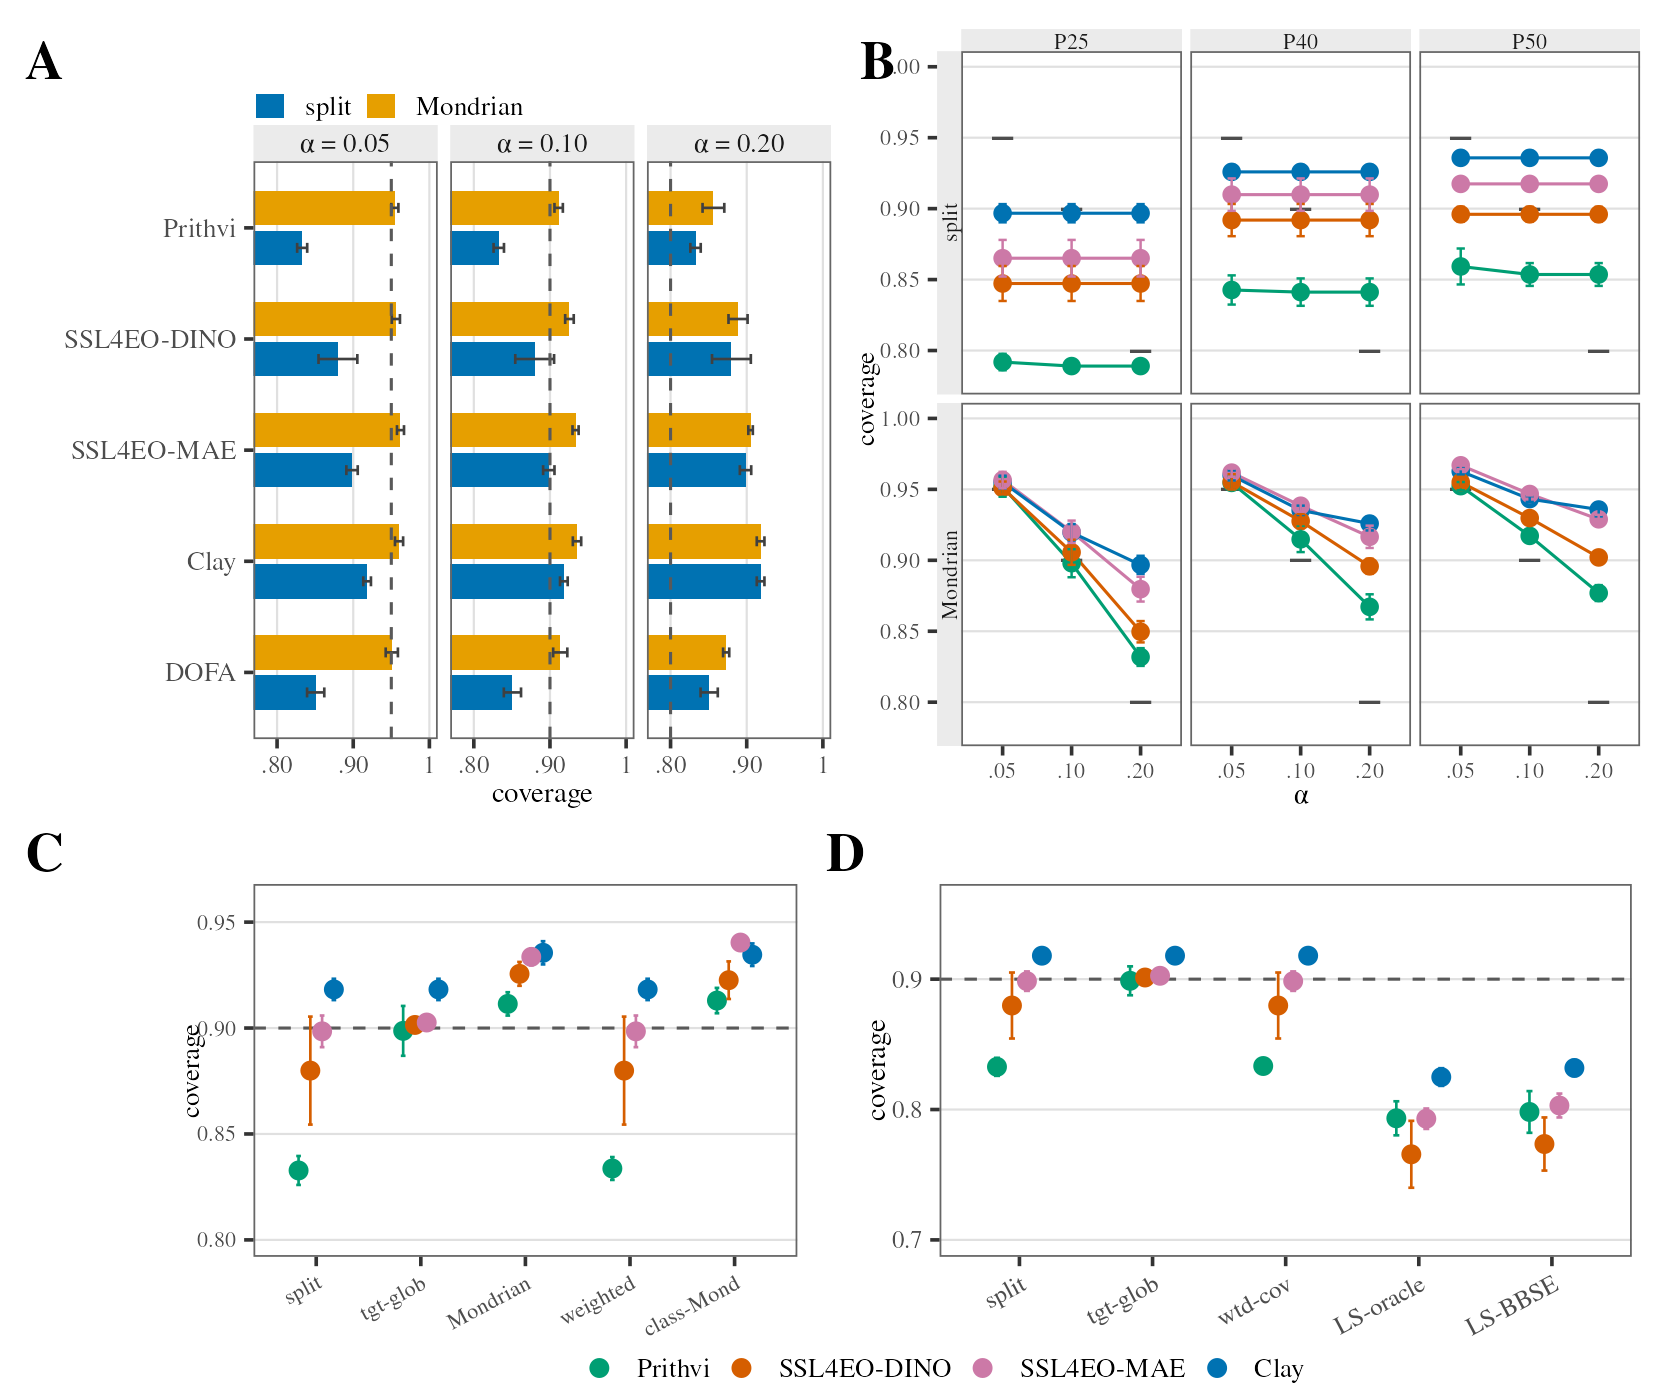
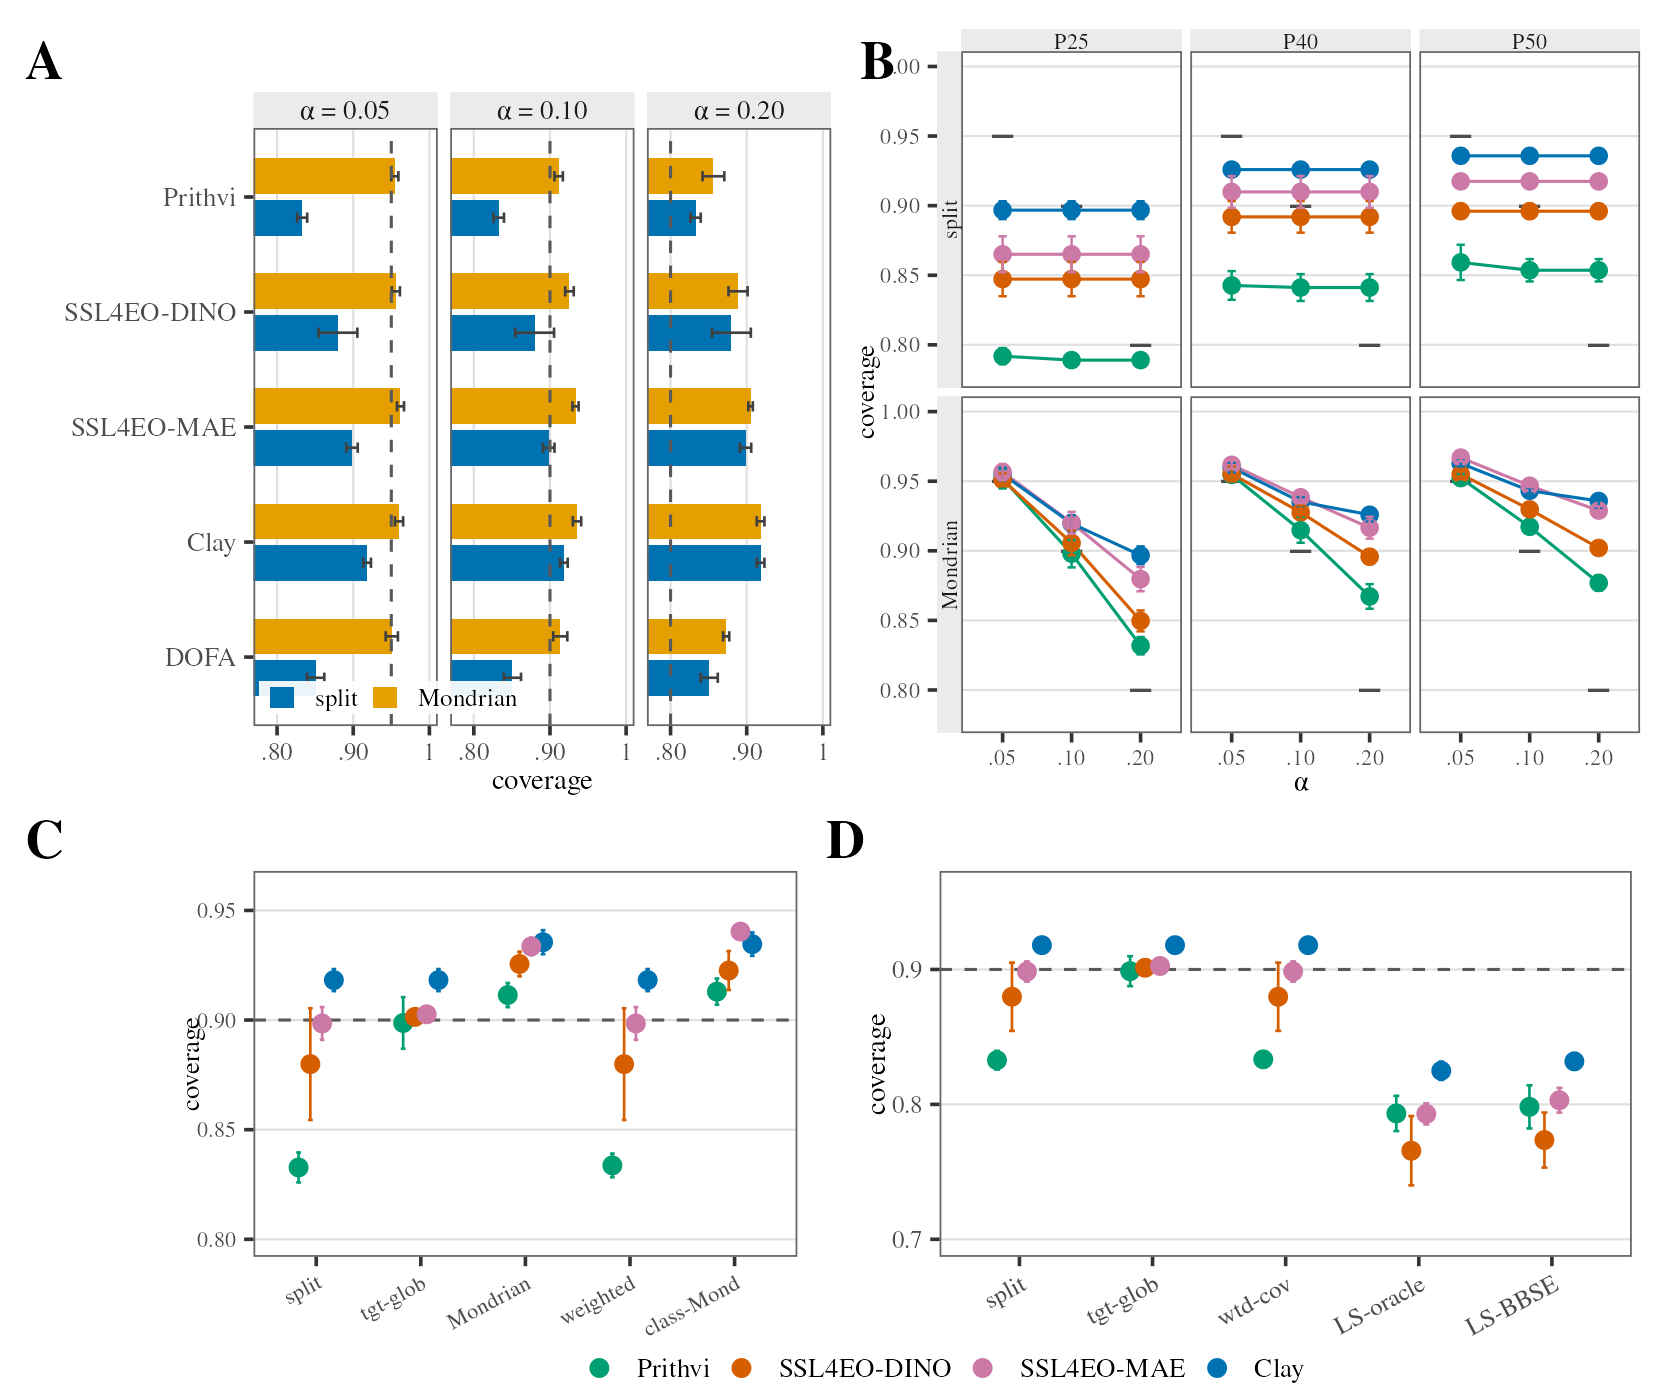
Catch remaining GEO fig0/F2 and TGRS TeX polish.

diff --git a/manuscripts/figures-src/fig0_overview.tex b/manuscripts/figures-src/fig0_overview.tex
@@ -11,10 +11,10 @@
 % cards/gaps) and place the FAILURE/SURVIVING fork as a second row centered
 % under the full pipeline width -- fills the empty lower-left / upper-right
 % corners of the prior stage-5-only fork.
-% 2026-08-12c body ratio: larger stage cards, tighter standalone crop, and a
-% clean rail+T fork in the gap between FAILURE|SURVIVING (no fish L-detour
-% under stage 5 into the SURVIVING card).
-\documentclass[border=1pt]{standalone}
+% 2026-08-12c body ratio: taller/wider stage cards, tighter crop; fork is a
+% direct stem from REPORT into a T in the FAILURE|SURVIVING gap (no fish
+% L-rail under stage 5).
+\documentclass[border=0.6pt]{standalone}
 \usepackage[T1]{fontenc}
 \usepackage{tikz}
 \usetikzlibrary{arrows.meta,calc,positioning}
@@ -36,127 +36,127 @@
 \begin{document}
 \begin{tikzpicture}[
   x=1mm, y=1mm,
-  font=\rmfamily\fontsize{7.8}{9.0}\selectfont,
+  font=\rmfamily\fontsize{8.0}{9.2}\selectfont,
   line cap=round, line join=round,
   >=Latex,
-  flow/.style={draw=cMute, line width=1.2pt,
-    -{Latex[length=2.4mm,width=1.6mm]}, shorten >=0.15mm, shorten <=0.15mm},
-  flowplain/.style={draw=cMute, line width=1.2pt},
-  stage/.style={draw=cLine, line width=0.65pt, rounded corners=1.25mm,
-    fill=cSurface, minimum width=28.5mm, minimum height=22.0mm,
+  flow/.style={draw=cMute, line width=1.25pt,
+    -{Latex[length=2.45mm,width=1.65mm]}, shorten >=0.12mm, shorten <=0.12mm},
+  flowplain/.style={draw=cMute, line width=1.25pt},
+  stage/.style={draw=cLine, line width=0.7pt, rounded corners=1.3mm,
+    fill=cSurface, minimum width=29.5mm, minimum height=24.0mm,
     inner sep=0pt, outer sep=0pt, align=center},
-  outbox/.style={draw, line width=0.95pt, rounded corners=1.15mm,
-    align=center, minimum width=56mm, minimum height=11.5mm,
-    inner sep=1.2mm, font=\rmfamily\fontsize{7.2}{8.2}\selectfont},
-  steplab/.style={font=\rmfamily\fontsize{6.1}{6.8}\selectfont, text=cMute},
-  rolelab/.style={font=\rmfamily\fontsize{5.5}{6.2}\selectfont\bfseries},
-  titlelab/.style={font=\rmfamily\fontsize{7.5}{8.4}\selectfont, text=cInk},
+  outbox/.style={draw, line width=1.0pt, rounded corners=1.2mm,
+    align=center, minimum width=58mm, minimum height=12.2mm,
+    inner sep=1.25mm, font=\rmfamily\fontsize{7.4}{8.4}\selectfont},
+  steplab/.style={font=\rmfamily\fontsize{6.3}{7.0}\selectfont, text=cMute},
+  rolelab/.style={font=\rmfamily\fontsize{5.7}{6.4}\selectfont\bfseries},
+  titlelab/.style={font=\rmfamily\fontsize{7.7}{8.6}\selectfont, text=cInk},
 ]
 
 % ---- Accent bar (left strip inside a named stage node) ----
 \newcommand{\accentbar}[2]{%
-  \fill[#2] ([xshift=0.5mm,yshift=-0.8mm]#1.north west)
-    rectangle ([xshift=1.9mm,yshift=0.8mm]#1.south west);}
+  \fill[#2] ([xshift=0.5mm,yshift=-0.85mm]#1.north west)
+    rectangle ([xshift=2.0mm,yshift=0.85mm]#1.south west);}
 
 % Soft role wash (top band) so stage type reads without relying on blue alone.
 \newcommand{\rolewash}[2]{%
-  \fill[#2, opacity=0.12] ([xshift=1.9mm,yshift=-0.5mm]#1.north west)
-    rectangle ([xshift=-0.5mm,yshift=-6.5mm]#1.north east);}
+  \fill[#2, opacity=0.12] ([xshift=2.0mm,yshift=-0.5mm]#1.north west)
+    rectangle ([xshift=-0.5mm,yshift=-6.8mm]#1.north east);}
 
 % =====================================================================
-% Row 1: five stages left → right. Centers every 33mm (28.5mm box + 4.5mm
-% gap) -- larger cards, still enough shaft for readable arrows.
+% Row 1: five stages left → right. Centers every 33.5mm (29.5mm box +
+% 4.0mm gap): larger cards, short but visible full arrow shafts.
 % =====================================================================
 \node[stage] (tile) at (0,0) {};
 \accentbar{tile}{cData}
 \rolewash{tile}{cData}
-\node[steplab, anchor=north west] at ($(tile.north west)+(2.3mm,-1.0mm)$) {1};
+\node[steplab, anchor=north west] at ($(tile.north west)+(2.4mm,-1.05mm)$) {1};
 \node[rolelab, text=cData!80!black, anchor=north east]
-  at ($(tile.north east)+(-1.0mm,-1.1mm)$) {DATA};
-\node[titlelab, align=center] at ($(tile.center)+(0.65mm,-2.9)$)
+  at ($(tile.north east)+(-1.05mm,-1.15mm)$) {DATA};
+\node[titlelab, align=center] at ($(tile.center)+(0.7mm,-3.15)$)
   {Sentinel-2\\tile};
 
-\node[stage] (enc) at (33,0) {};
+\node[stage] (enc) at (33.5,0) {};
 \accentbar{enc}{cModel}
 \rolewash{enc}{cModel}
-\node[steplab, anchor=north west] at ($(enc.north west)+(2.3mm,-1.0mm)$) {2};
+\node[steplab, anchor=north west] at ($(enc.north west)+(2.4mm,-1.05mm)$) {2};
 \node[rolelab, text=cModel!85!black, anchor=north east]
-  at ($(enc.north east)+(-1.0mm,-1.1mm)$) {MODEL};
-\node[titlelab, align=center] at ($(enc.center)+(0.65mm,-2.9)$)
+  at ($(enc.north east)+(-1.05mm,-1.15mm)$) {MODEL};
+\node[titlelab, align=center] at ($(enc.center)+(0.7mm,-3.15)$)
   {Frozen GFM\\encoder};
 
-\node[stage] (probe) at (66,0) {};
+\node[stage] (probe) at (67,0) {};
 \accentbar{probe}{cProbe}
 \rolewash{probe}{cProbe}
-\node[steplab, anchor=north west] at ($(probe.north west)+(2.3mm,-1.0mm)$) {3};
+\node[steplab, anchor=north west] at ($(probe.north west)+(2.4mm,-1.05mm)$) {3};
 \node[rolelab, text=cProbe!80!black, anchor=north east]
-  at ($(probe.north east)+(-1.0mm,-1.1mm)$) {PROBE};
-\node[titlelab, align=center] at ($(probe.center)+(0.65mm,-2.9)$)
+  at ($(probe.north east)+(-1.05mm,-1.15mm)$) {PROBE};
+\node[titlelab, align=center] at ($(probe.center)+(0.7mm,-3.15)$)
   {Frozen-embedding\\probe};
 
-\node[stage] (calib) at (99,0) {};
+\node[stage] (calib) at (100.5,0) {};
 \accentbar{calib}{cEval}
 \rolewash{calib}{cEval}
-\node[steplab, anchor=north west] at ($(calib.north west)+(2.3mm,-1.0mm)$) {4};
+\node[steplab, anchor=north west] at ($(calib.north west)+(2.4mm,-1.05mm)$) {4};
 \node[rolelab, text=cEval!80!black, anchor=north east]
-  at ($(calib.north east)+(-1.0mm,-1.1mm)$) {EVAL};
-\node[titlelab, align=center] at ($(calib.center)+(0.65mm,-2.9)$)
+  at ($(calib.north east)+(-1.05mm,-1.15mm)$) {EVAL};
+\node[titlelab, align=center] at ($(calib.center)+(0.7mm,-3.15)$)
   {Conformal calib.\\under shift};
 
-\node[stage] (report) at (132,0) {};
+\node[stage] (report) at (134,0) {};
 \accentbar{report}{cReport}
 \rolewash{report}{cReport}
-\node[steplab, anchor=north west] at ($(report.north west)+(2.3mm,-1.0mm)$) {5};
+\node[steplab, anchor=north west] at ($(report.north west)+(2.4mm,-1.05mm)$) {5};
 \node[rolelab, text=cReport, anchor=north east]
-  at ($(report.north east)+(-1.0mm,-1.1mm)$) {REPORT};
-\node[titlelab, align=center] at ($(report.center)+(0.65mm,-2.9)$)
+  at ($(report.north east)+(-1.05mm,-1.15mm)$) {REPORT};
+\node[titlelab, align=center] at ($(report.center)+(0.7mm,-3.15)$)
   {Coverage-debt\\report card};
 
 % ---- Icons (above labels, inside each card) ----
-\begin{scope}[shift={($(tile.center)+(0.85mm,4.2mm)$)}, thick, cData!85!black]
-  \draw[line width=0.6pt] (-1.95mm,-1.05mm) rectangle (1.95mm,1.05mm);
-  \draw[line width=0.5pt] (-3.55mm,-0.8mm) rectangle (-1.95mm,0.8mm);
-  \draw[line width=0.5pt] (1.95mm,-0.8mm) rectangle (3.55mm,0.8mm);
-  \draw[line width=0.5pt] (0,1.05mm) -- (0,2.35mm);
-  \fill (0,2.35mm) circle (0.36mm);
+\begin{scope}[shift={($(tile.center)+(0.9mm,4.55mm)$)}, thick, cData!85!black]
+  \draw[line width=0.62pt] (-2.05mm,-1.1mm) rectangle (2.05mm,1.1mm);
+  \draw[line width=0.52pt] (-3.7mm,-0.85mm) rectangle (-2.05mm,0.85mm);
+  \draw[line width=0.52pt] (2.05mm,-0.85mm) rectangle (3.7mm,0.85mm);
+  \draw[line width=0.52pt] (0,1.1mm) -- (0,2.45mm);
+  \fill (0,2.45mm) circle (0.38mm);
 \end{scope}
 
-\begin{scope}[shift={($(enc.center)+(-1.3mm,4.3mm)$)}, thick, cModel]
-  \draw[line width=0.55pt] (0,0) circle (1.5mm);
-  \foreach \a in {0,45,...,315}{\draw[line width=0.5pt] (\a:1.5mm) -- (\a:2.15mm);}
-  \fill[cSurface] (0,0) circle (0.58mm);
-  \draw[line width=0.5pt] (0,0) circle (0.58mm);
+\begin{scope}[shift={($(enc.center)+(-1.35mm,4.65mm)$)}, thick, cModel]
+  \draw[line width=0.58pt] (0,0) circle (1.6mm);
+  \foreach \a in {0,45,...,315}{\draw[line width=0.52pt] (\a:1.6mm) -- (\a:2.25mm);}
+  \fill[cSurface] (0,0) circle (0.6mm);
+  \draw[line width=0.52pt] (0,0) circle (0.6mm);
 \end{scope}
-\begin{scope}[shift={($(enc.center)+(2.85mm,4.0mm)$)}, thick, cMute]
-  \foreach \dy in {0,1.0mm}{
-    \draw[line width=0.45pt]
-      (-1.25mm,0.4mm+\dy) -- (-1.25mm,-0.4mm+\dy)
-      arc (180:360:1.25mm and 0.4mm)
-      -- (1.25mm,0.4mm+\dy)
-      arc (0:180:1.25mm and 0.4mm);
+\begin{scope}[shift={($(enc.center)+(3.0mm,4.3mm)$)}, thick, cMute]
+  \foreach \dy in {0,1.05mm}{
+    \draw[line width=0.48pt]
+      (-1.3mm,0.42mm+\dy) -- (-1.3mm,-0.42mm+\dy)
+      arc (180:360:1.3mm and 0.42mm)
+      -- (1.3mm,0.42mm+\dy)
+      arc (0:180:1.3mm and 0.42mm);
   }
-  \draw[line width=0.45pt] (-1.25mm,0.4mm+1.0mm) arc (180:360:1.25mm and 0.4mm);
+  \draw[line width=0.48pt] (-1.3mm,0.42mm+1.05mm) arc (180:360:1.3mm and 0.42mm);
 \end{scope}
 
-\begin{scope}[shift={($(probe.center)+(0.7mm,3.0mm)$)}, cProbe!75!black]
-  \fill (-2.2mm,0) rectangle (-1.05mm,1.55mm);
-  \fill (-0.5mm,0) rectangle (0.5mm,2.35mm);
-  \fill (1.05mm,0) rectangle (2.2mm,3.15mm);
+\begin{scope}[shift={($(probe.center)+(0.75mm,3.25mm)$)}, cProbe!75!black]
+  \fill (-2.3mm,0) rectangle (-1.1mm,1.65mm);
+  \fill (-0.5mm,0) rectangle (0.5mm,2.5mm);
+  \fill (1.1mm,0) rectangle (2.3mm,3.35mm);
 \end{scope}
 
-\begin{scope}[shift={($(calib.center)+(0.8mm,4.2mm)$)}, thick, cEval!85!black]
-  \draw[line width=0.55pt] (0,0) circle (2.15mm);
-  \draw[line width=0.5pt] (0,0) circle (1.25mm);
-  \fill (0,0) circle (0.44mm);
+\begin{scope}[shift={($(calib.center)+(0.85mm,4.55mm)$)}, thick, cEval!85!black]
+  \draw[line width=0.58pt] (0,0) circle (2.25mm);
+  \draw[line width=0.52pt] (0,0) circle (1.3mm);
+  \fill (0,0) circle (0.46mm);
 \end{scope}
 
-\begin{scope}[shift={($(report.center)+(0.8mm,4.2mm)$)}, thick, cReport]
-  \draw[line width=0.55pt]
-    (-2.0mm,-2.4mm) -- (-2.0mm,2.4mm) -- (1.0mm,2.4mm) --
-    (2.0mm,1.4mm) -- (2.0mm,-2.4mm) -- cycle;
-  \draw[line width=0.5pt] (1.0mm,2.4mm) -- (1.0mm,1.4mm) -- (2.0mm,1.4mm);
-  \foreach \y in {0.55mm,-0.45mm,-1.45mm}{
-    \draw[line width=0.4pt] (-1.25mm,\y) -- (1.25mm,\y);
+\begin{scope}[shift={($(report.center)+(0.85mm,4.55mm)$)}, thick, cReport]
+  \draw[line width=0.58pt]
+    (-2.1mm,-2.55mm) -- (-2.1mm,2.55mm) -- (1.05mm,2.55mm) --
+    (2.1mm,1.5mm) -- (2.1mm,-2.55mm) -- cycle;
+  \draw[line width=0.52pt] (1.05mm,2.55mm) -- (1.05mm,1.5mm) -- (2.1mm,1.5mm);
+  \foreach \y in {0.6mm,-0.5mm,-1.55mm}{
+    \draw[line width=0.42pt] (-1.3mm,\y) -- (1.3mm,\y);
   }
 \end{scope}
 
@@ -167,39 +167,31 @@
 \draw[flow] (calib.east) -- (report.west);
 
 % =====================================================================
-% Row 2: outcome fork spanning the pipeline width. Junction sits in the
-% gap between FAILURE and SURVIVING (not under stage 5 inside SURVIVING).
-% Report drops to a rail above the labels, then down into a clean T.
+% Row 2: outcome fork spanning the pipeline. Junction = midpoint of the
+% FAILURE|SURVIVING gap. Stem = single straight shaft from REPORT.south
+% into that T (no multi-bend fish rail).
 % =====================================================================
-% Outcome boxes first so the gap midpoint is well-defined.
 \node[outbox, draw=cFail, fill=cFail!8, anchor=west] (fail)
-  at ($(tile.south west)+(0,-17.0mm)$)
-  {\textbf{No universal restoration}\\[-0.1mm]
-   {\fontsize{5.9}{6.7}\selectfont protocol fails to restore}};
+  at ($(tile.south west)+(0,-15.5mm)$)
+  {\textbf{No universal restoration}\\[-0.05mm]
+   {\fontsize{6.0}{6.8}\selectfont protocol fails to restore}};
 \node[outbox, draw=cCond, fill=cCond!8, anchor=east] (cond)
-  at ($(report.south east)+(0,-17.0mm)$)
-  {\textbf{Conditional labeled-target}\\[-0.1mm]
-   {\fontsize{5.9}{6.7}\selectfont recalibration}};
+  at ($(report.south east)+(0,-15.5mm)$)
+  {\textbf{Conditional labeled-target}\\[-0.05mm]
+   {\fontsize{6.0}{6.8}\selectfont recalibration}};
 
-\node[rolelab, text=cFail, above=0.35mm of fail.north] (faillab) {FAILURE};
-\node[rolelab, text=cCond!80!black, above=0.35mm of cond.north] (condlab) {SURVIVING};
+\node[rolelab, text=cFail, above=0.3mm of fail.north] {FAILURE};
+\node[rolelab, text=cCond!80!black, above=0.3mm of cond.north] {SURVIVING};
 
-% Junction: midpoint of the facing edges, at outcome mid-height.
 \coordinate (branch) at ($(fail.east)!0.5!(cond.west)$);
 
-% Rail y: just above outcome role labels (clear of card tops).
-\coordinate (railY) at ($(faillab.north)!0.5!(condlab.north)+(0,1.6mm)$);
-\coordinate (railR) at (report.south |- railY);
-\coordinate (railJ) at (branch |- railY);
-
-\draw[flowplain] (report.south) -- (railR);
-\draw[flowplain] (railR) -- (railJ);
-\draw[flowplain] (railJ) -- (branch);
-\draw[draw=cFail, line width=1.2pt,
-  -{Latex[length=2.4mm,width=1.6mm]}, shorten >=0.15mm, shorten <=0.15mm]
+% Direct stem into the gap T, then colored full shafts.
+\draw[flowplain] (report.south) -- (branch);
+\draw[draw=cFail, line width=1.25pt,
+  -{Latex[length=2.45mm,width=1.65mm]}, shorten >=0.12mm, shorten <=0.12mm]
   (branch) -- (fail.east);
-\draw[draw=cCond, line width=1.2pt,
-  -{Latex[length=2.4mm,width=1.6mm]}, shorten >=0.15mm, shorten <=0.15mm]
+\draw[draw=cCond, line width=1.25pt,
+  -{Latex[length=2.45mm,width=1.65mm]}, shorten >=0.12mm, shorten <=0.12mm]
   (branch) -- (cond.west);
 
 \end{tikzpicture}

diff --git a/manuscripts/tgrs/paper_ieeetran.tex b/manuscripts/tgrs/paper_ieeetran.tex
@@ -765,10 +765,10 @@ reliable remedy.
 \begin{table*}[!t]\centering\small
 \caption{Unlabeled-remedy controls on the identical EuroSAT E$\to$W split (5-seed means; full
 $\alpha\in\{0.05,0.10,0.20\}$ sweep from the frozen result records): covariate-shift-weighted split
-conformal \citep{tibshirani2019covariate} (density-ratio weights from a source-vs-target discriminator on
+conformal (density-ratio weights from a source-vs-target discriminator on
 the frozen embeddings; ``ESS'' is the weights' effective sample size as a fraction of the calibration set,
 fixed before calibration and hence constant across $\alpha$) and label-shift-weighted split conformal
-\citep{podkopaev2021labelshift} (Oracle: true target label marginal; BBSE \citep{lipton2018bbse}: target
+(Oracle: true target label marginal; BBSE: target
 priors from unlabeled target predictions). Split, Weighted, ESS, and Target-global columns are from the
 weighted-run record; the label-shift record reproduces Split and Target-global within $\pm0.001$. Weighted
 conformal under-covers nominal at every $\alpha$ for every encoder (the ESS collapse signals the shift is
@@ -1117,7 +1117,7 @@ and Mondrian restoration replicate across all three encoders. This proxy is a co
 replication; the companion per-label multi-label analysis is the primary BigEarthNet evidence.}\label{fig:f5}\end{figure*}
 
 \begin{figure*}[htbp]\centering\includegraphics[width=0.95\textwidth]{F6_bigearthnet_perlabel.pdf}
-\caption{Per-label multi-label conformal on GEO-Bench \citep{lacoste2023geobench} \texttt{m-bigearthnet}
+\caption{Per-label multi-label conformal on GEO-Bench \texttt{m-bigearthnet}
 (BigEarthNet-S2; 27 active labels after per-split filtering; real geographic E$\to$W shift).
 Columns are frozen encoders; rows are (top) mean per-label recall-coverage
 $\Pr(c\in\mathcal{C}(x)\mid y_c=1)$ and (bottom) mean predicted
